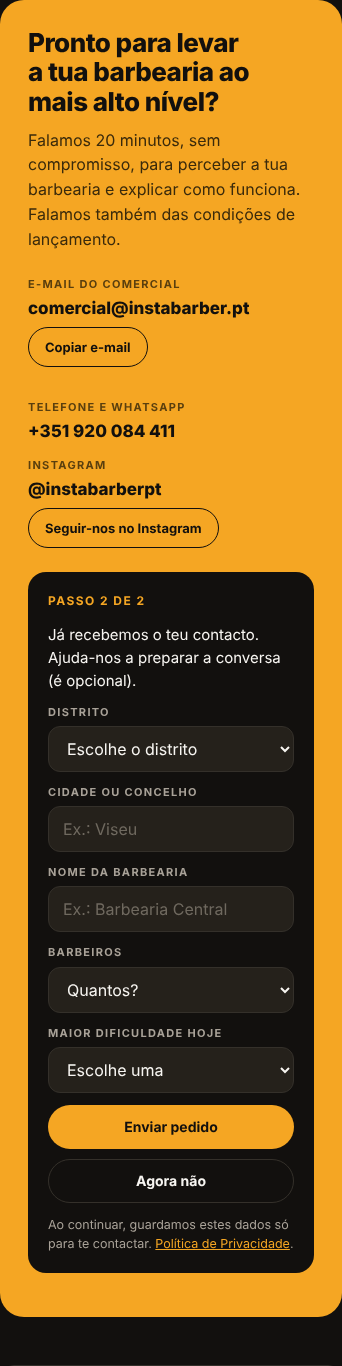
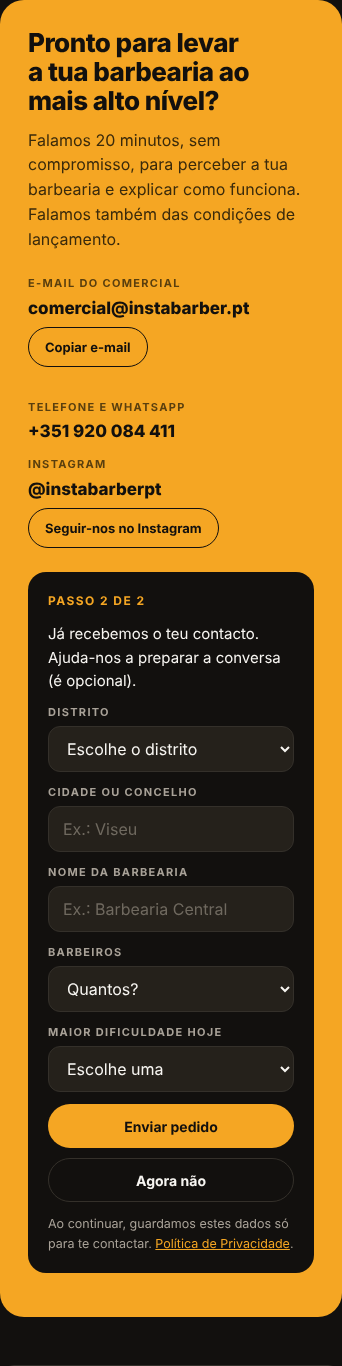
Landing: contagem decrescente e botão verde Avisar cliente na agenda da demo (D-96)
Claude-Session: https://claude.ai/code/session_01NzqEVh27JN9VYLXgeANEsa

diff --git a/landing/index.html b/landing/index.html
@@ -246,6 +246,14 @@ details .ans a { color: var(--gold); }
 .slotx { display: grid; grid-template-columns: 56px minmax(0, 1fr) auto; gap: 12px; align-items: center; padding: 10px 14px; border: 1px solid var(--line); border-radius: 12px; background: var(--ink-3); min-height: 56px; }
 .slotx time { font-weight: 800; color: var(--gold); font-variant-numeric: tabular-nums; }
 .slotx small { display: block; color: var(--mute); font-size: 13px; }
+.slotx .act { display: flex; align-items: center; gap: 10px; flex-wrap: wrap; justify-content: flex-end; }
+.slotx .cd { color: var(--green); font-weight: 700; font-variant-numeric: tabular-nums; }
+.slotx .avmsg { grid-column: 1 / -1; background: var(--ink); border-left: 3px solid var(--green); border-radius: 8px; padding: 10px 12px; font-size: 14px; color: var(--cream); }
+.slotx .avmsg small { margin-top: 6px; }
+.slotx .avok { color: var(--green); font-weight: 700; font-size: 14px; }
+.mini.ok { background: var(--green); border-color: var(--green); color: var(--ink); }
+.mini.ok:hover { background: #55D3A2; border-color: #55D3A2; color: var(--ink); }
+#lab[data-tema="claro"] .mini.ok { background: var(--green); border-color: var(--green); color: #FFFFFF; }
 .slotx.free { border-style: dashed; background: transparent; }
 .slotx.mine { border-color: var(--green); }
 .mini { font: inherit; font-weight: 700; font-size: 13px; min-height: 40px; padding: 0 14px; border-radius: 999px; border: 1.5px solid var(--gold); background: transparent; color: var(--gold); cursor: pointer; }
@@ -380,7 +388,7 @@ footer .links a:hover { color: var(--gold); }
   .slotx { grid-template-columns: 52px minmax(0, 1fr); }
   .prow { grid-template-columns: minmax(0, 1fr) auto; }
   .prow > :last-child { grid-column: 1 / -1; justify-self: start; }
-  .slotx > :last-child { grid-column: 1 / -1; justify-self: start; }
+  .slotx > .act, .slotx > .svc, .slotx > button { grid-column: 1 / -1; justify-self: start; }
   .who > div { border-left: 0; border-top: 1px solid var(--line); }
   .who > div:first-child { border-top: 0; }
   .plans { grid-template-columns: minmax(0, 1fr); }
@@ -481,7 +489,7 @@ footer .links a:hover { color: var(--gold); }
       </div>
 
       <div class="pane" id="p-agenda" role="tabpanel" aria-labelledby="t-agenda">
-        <p class="hintx">Carrega numa vaga livre e marca como se fosses um cliente da página pública.</p>
+        <p class="hintx">Carrega numa vaga livre e marca como se fosses um cliente da página pública. Quando a hora de um cliente se aproxima, avisa-o com um toque.</p>
         <div class="row2">
           <div class="pane" id="agenda"></div>
           <div class="stats">
@@ -1018,12 +1026,22 @@ footer .links a:hover { color: var(--gold); }
 
   /* agenda */
   var SERV = [{ k: "Corte", p: 12 }, { k: "Barba", p: 8 }, { k: "Corte e barba", p: 18 }];
+  var T0 = Date.now();
+  function agHora(ms) { return new Intl.DateTimeFormat("pt-PT", { timeZone: "Europe/Lisbon", hour: "2-digit", minute: "2-digit", hour12: false }).format(new Date(ms)); }
+  function agAlvo(min) { return Math.ceil((T0 + min * 60000) / 300000) * 300000; }
   var slots = [
-    { t: "10:00", n: "Tiago M.", s: "Corte e barba", p: 18 }, { t: "10:45", n: "André S.", s: "Corte", p: 12 },
-    { t: "11:15", free: true }, { t: "12:00", n: "Rui P.", s: "Barba", p: 8 },
-    { t: "15:00", free: true }, { t: "16:30", n: "Nuno F.", s: "Corte", p: 12 }, { t: "17:15", free: true }
+    { m: 30, n: "Tiago M.", s: "Corte e barba", p: 18 }, { m: 75, n: "André S.", s: "Corte", p: 12 },
+    { m: 105, free: true }, { m: 150, n: "Rui P.", s: "Barba", p: 8 },
+    { m: 330, free: true }, { m: 420, n: "Nuno F.", s: "Corte", p: 12 }, { m: 465, free: true }
   ];
+  slots.forEach(function (s) { s.ts = agAlvo(s.m); s.t = agHora(s.ts); s.av = 0; });
   var abertoIdx = -1;
+  function contagem(ts) {
+    var d = Math.round((ts - Date.now()) / 1000);
+    if (d <= 0) { return "A começar agora"; }
+    if (d < 3600) { return "Começa em " + String(Math.floor(d / 60)).padStart(2, "0") + ":" + String(d % 60).padStart(2, "0"); }
+    return "Começa em " + Math.floor(d / 3600) + " h " + String(Math.floor(d % 3600 / 60)).padStart(2, "0") + " min";
+  }
   function pintarAgenda() {
     var h = "", total = 0, livres = 0;
     slots.forEach(function (s, i) {
@@ -1038,8 +1056,14 @@ footer .links a:hover { color: var(--gold); }
         }
       } else {
         total += s.p;
-        h += '<div class="slotx' + (s.mine ? " mine" : "") + '"><time>' + s.t + '</time><span>' + s.n + '<small>' + s.s + (s.mine ? " · marcado pela página pública" : "") + '</small></span>' +
-          (s.mine ? '<button class="mini ghost" type="button" data-x="' + i + '">Cancelar</button>' : '<em>' + s.p + ' €</em>') + '</div>';
+        var acao;
+        if (s.mine) { acao = '<button class="mini ghost" type="button" data-x="' + i + '">Cancelar</button>'; }
+        else if (s.av === 0) { acao = '<em>' + s.p + ' €</em><button class="mini ok" type="button" data-v="' + i + '">Avisar cliente</button>'; }
+        else if (s.av === 1) { acao = '<em>' + s.p + ' €</em><button class="mini ok" type="button" data-v="' + i + '">Confirmei o envio</button>'; }
+        else { acao = '<em>' + s.p + ' €</em><span class="avok">Cliente avisado</span>'; }
+        h += '<div class="slotx' + (s.mine ? " mine" : "") + '"><time>' + s.t + '</time><span>' + s.n + '<small>' + s.s + (s.mine ? " · marcado pela página pública" : "") + '</small><small class="cd" data-ts="' + s.ts + '">' + contagem(s.ts) + '</small></span>' +
+          '<div class="act">' + acao + '</div>' +
+          (s.av === 1 ? '<div class="avmsg">Olá ' + s.n.split(" ")[0] + '! Já falta pouco para o teu ' + s.s.toLowerCase() + ' na Barbearia Central, às ' + s.t + '. Até já!<small>No sistema real, a conversa abre no WhatsApp do cliente e nada se envia sozinho: tu confirmas.</small></div>' : '') + '</div>';
       }
     });
     $("agenda").innerHTML = h; $("a-total").textContent = eur(total); $("a-livres").textContent = String(livres);
@@ -1051,10 +1075,14 @@ footer .links a:hover { color: var(--gold); }
     else if (b.dataset.m) {
       var p = b.dataset.m.split(":"), s = slots[+p[0]], x = SERV[+p[1]];
       s.free = false; s.mine = true; s.n = "Tu (cliente novo)"; s.s = x.k; s.p = x.p; abertoIdx = -1;
-    } else if (b.dataset.x) { var q = slots[+b.dataset.x]; slots[+b.dataset.x] = { t: q.t, free: true }; }
+    } else if (b.dataset.v) { slots[+b.dataset.v].av += 1; }
+    else if (b.dataset.x) { var q = slots[+b.dataset.x]; slots[+b.dataset.x] = { m: q.m, ts: q.ts, t: q.t, av: 0, free: true }; }
     pintarAgenda();
   });
   pintarAgenda();
+  setInterval(function () {
+    Array.prototype.forEach.call(document.querySelectorAll("#agenda .cd"), function (el) { el.textContent = contagem(+el.dataset.ts); });
+  }, 1000);
 
   /* painel financeiro */
   var FIN = { hoje: { n: "Hoje", f: 186, o: 240, d: 35, s: 9 }, sem: { n: "Esta semana", f: 1040, o: 1250, d: 310, s: 48 }, mes: { n: "Este mês", f: 4180, o: 5000, d: 1260, s: 190 } };

diff --git a/landing/publicar/index.html b/landing/publicar/index.html
@@ -262,6 +262,14 @@ details .ans a { color: var(--gold); }
 .slotx { display: grid; grid-template-columns: 56px minmax(0, 1fr) auto; gap: 12px; align-items: center; padding: 10px 14px; border: 1px solid var(--line); border-radius: 12px; background: var(--ink-3); min-height: 56px; }
 .slotx time { font-weight: 800; color: var(--gold); font-variant-numeric: tabular-nums; }
 .slotx small { display: block; color: var(--mute); font-size: 13px; }
+.slotx .act { display: flex; align-items: center; gap: 10px; flex-wrap: wrap; justify-content: flex-end; }
+.slotx .cd { color: var(--green); font-weight: 700; font-variant-numeric: tabular-nums; }
+.slotx .avmsg { grid-column: 1 / -1; background: var(--ink); border-left: 3px solid var(--green); border-radius: 8px; padding: 10px 12px; font-size: 14px; color: var(--cream); }
+.slotx .avmsg small { margin-top: 6px; }
+.slotx .avok { color: var(--green); font-weight: 700; font-size: 14px; }
+.mini.ok { background: var(--green); border-color: var(--green); color: var(--ink); }
+.mini.ok:hover { background: #55D3A2; border-color: #55D3A2; color: var(--ink); }
+#lab[data-tema="claro"] .mini.ok { background: var(--green); border-color: var(--green); color: #FFFFFF; }
 .slotx.free { border-style: dashed; background: transparent; }
 .slotx.mine { border-color: var(--green); }
 .mini { font: inherit; font-weight: 700; font-size: 13px; min-height: 40px; padding: 0 14px; border-radius: 999px; border: 1.5px solid var(--gold); background: transparent; color: var(--gold); cursor: pointer; }
@@ -396,7 +404,7 @@ footer .links a:hover { color: var(--gold); }
   .slotx { grid-template-columns: 52px minmax(0, 1fr); }
   .prow { grid-template-columns: minmax(0, 1fr) auto; }
   .prow > :last-child { grid-column: 1 / -1; justify-self: start; }
-  .slotx > :last-child { grid-column: 1 / -1; justify-self: start; }
+  .slotx > .act, .slotx > .svc, .slotx > button { grid-column: 1 / -1; justify-self: start; }
   .who > div { border-left: 0; border-top: 1px solid var(--line); }
   .who > div:first-child { border-top: 0; }
   .plans { grid-template-columns: minmax(0, 1fr); }
@@ -500,7 +508,7 @@ footer .links a:hover { color: var(--gold); }
       </div>
 
       <div class="pane" id="p-agenda" role="tabpanel" aria-labelledby="t-agenda">
-        <p class="hintx">Carrega numa vaga livre e marca como se fosses um cliente da página pública.</p>
+        <p class="hintx">Carrega numa vaga livre e marca como se fosses um cliente da página pública. Quando a hora de um cliente se aproxima, avisa-o com um toque.</p>
         <div class="row2">
           <div class="pane" id="agenda"></div>
           <div class="stats">
@@ -1037,12 +1045,22 @@ footer .links a:hover { color: var(--gold); }
 
   /* agenda */
   var SERV = [{ k: "Corte", p: 12 }, { k: "Barba", p: 8 }, { k: "Corte e barba", p: 18 }];
+  var T0 = Date.now();
+  function agHora(ms) { return new Intl.DateTimeFormat("pt-PT", { timeZone: "Europe/Lisbon", hour: "2-digit", minute: "2-digit", hour12: false }).format(new Date(ms)); }
+  function agAlvo(min) { return Math.ceil((T0 + min * 60000) / 300000) * 300000; }
   var slots = [
-    { t: "10:00", n: "Tiago M.", s: "Corte e barba", p: 18 }, { t: "10:45", n: "André S.", s: "Corte", p: 12 },
-    { t: "11:15", free: true }, { t: "12:00", n: "Rui P.", s: "Barba", p: 8 },
-    { t: "15:00", free: true }, { t: "16:30", n: "Nuno F.", s: "Corte", p: 12 }, { t: "17:15", free: true }
+    { m: 30, n: "Tiago M.", s: "Corte e barba", p: 18 }, { m: 75, n: "André S.", s: "Corte", p: 12 },
+    { m: 105, free: true }, { m: 150, n: "Rui P.", s: "Barba", p: 8 },
+    { m: 330, free: true }, { m: 420, n: "Nuno F.", s: "Corte", p: 12 }, { m: 465, free: true }
   ];
+  slots.forEach(function (s) { s.ts = agAlvo(s.m); s.t = agHora(s.ts); s.av = 0; });
   var abertoIdx = -1;
+  function contagem(ts) {
+    var d = Math.round((ts - Date.now()) / 1000);
+    if (d <= 0) { return "A começar agora"; }
+    if (d < 3600) { return "Começa em " + String(Math.floor(d / 60)).padStart(2, "0") + ":" + String(d % 60).padStart(2, "0"); }
+    return "Começa em " + Math.floor(d / 3600) + " h " + String(Math.floor(d % 3600 / 60)).padStart(2, "0") + " min";
+  }
   function pintarAgenda() {
     var h = "", total = 0, livres = 0;
     slots.forEach(function (s, i) {
@@ -1057,8 +1075,14 @@ footer .links a:hover { color: var(--gold); }
         }
       } else {
         total += s.p;
-        h += '<div class="slotx' + (s.mine ? " mine" : "") + '"><time>' + s.t + '</time><span>' + s.n + '<small>' + s.s + (s.mine ? " · marcado pela página pública" : "") + '</small></span>' +
-          (s.mine ? '<button class="mini ghost" type="button" data-x="' + i + '">Cancelar</button>' : '<em>' + s.p + ' €</em>') + '</div>';
+        var acao;
+        if (s.mine) { acao = '<button class="mini ghost" type="button" data-x="' + i + '">Cancelar</button>'; }
+        else if (s.av === 0) { acao = '<em>' + s.p + ' €</em><button class="mini ok" type="button" data-v="' + i + '">Avisar cliente</button>'; }
+        else if (s.av === 1) { acao = '<em>' + s.p + ' €</em><button class="mini ok" type="button" data-v="' + i + '">Confirmei o envio</button>'; }
+        else { acao = '<em>' + s.p + ' €</em><span class="avok">Cliente avisado</span>'; }
+        h += '<div class="slotx' + (s.mine ? " mine" : "") + '"><time>' + s.t + '</time><span>' + s.n + '<small>' + s.s + (s.mine ? " · marcado pela página pública" : "") + '</small><small class="cd" data-ts="' + s.ts + '">' + contagem(s.ts) + '</small></span>' +
+          '<div class="act">' + acao + '</div>' +
+          (s.av === 1 ? '<div class="avmsg">Olá ' + s.n.split(" ")[0] + '! Já falta pouco para o teu ' + s.s.toLowerCase() + ' na Barbearia Central, às ' + s.t + '. Até já!<small>No sistema real, a conversa abre no WhatsApp do cliente e nada se envia sozinho: tu confirmas.</small></div>' : '') + '</div>';
       }
     });
     $("agenda").innerHTML = h; $("a-total").textContent = eur(total); $("a-livres").textContent = String(livres);
@@ -1070,10 +1094,14 @@ footer .links a:hover { color: var(--gold); }
     else if (b.dataset.m) {
       var p = b.dataset.m.split(":"), s = slots[+p[0]], x = SERV[+p[1]];
       s.free = false; s.mine = true; s.n = "Tu (cliente novo)"; s.s = x.k; s.p = x.p; abertoIdx = -1;
-    } else if (b.dataset.x) { var q = slots[+b.dataset.x]; slots[+b.dataset.x] = { t: q.t, free: true }; }
+    } else if (b.dataset.v) { slots[+b.dataset.v].av += 1; }
+    else if (b.dataset.x) { var q = slots[+b.dataset.x]; slots[+b.dataset.x] = { m: q.m, ts: q.ts, t: q.t, av: 0, free: true }; }
     pintarAgenda();
   });
   pintarAgenda();
+  setInterval(function () {
+    Array.prototype.forEach.call(document.querySelectorAll("#agenda .cd"), function (el) { el.textContent = contagem(+el.dataset.ts); });
+  }, 1000);
 
   /* painel financeiro */
   var FIN = { hoje: { n: "Hoje", f: 186, o: 240, d: 35, s: 9 }, sem: { n: "Esta semana", f: 1040, o: 1250, d: 310, s: 48 }, mes: { n: "Este mês", f: 4180, o: 5000, d: 1260, s: 190 } };

diff --git a/DECISOES.md b/DECISOES.md
@@ -441,3 +441,8 @@ O módulo da calculadora passa a ter fundo claro, barra de aplicação no topo (
 ## D-95 · 22/10/2026 · Cartão oferta: card estático
 - O Cartão oferta interativo foi substituído por um card estático: descrição do serviço («Uma prenda que traz clientes novos», com três pontos) e, ao lado, a ilustração do cartão (exemplo de 30,00 €, código de exemplo, «Válido por 12 meses», «Não é documento fiscal»).
 - Removidos o JavaScript e o CSS da versão interativa (incluindo as regras `.calc` e `#receitabox`, que já não tinham uso).
+
+## D-96 · 22/10/2026 · Agenda da demonstração: contagem e botão «Avisar cliente»
+- Na aba Agenda da demonstração, cada cliente marcado mostra uma contagem decrescente («Começa em 29:58», e «Começa em 1 h 16 min» quando falta mais de uma hora) e um botão verde «Avisar cliente».
+- O botão segue a regra do WhatsApp (CLAUDE.md, regra 7): primeiro prepara a mensagem, depois «Confirmei o envio», e só então fica «Cliente avisado». Nada se dá como enviado sem confirmação.
+- As horas da demonstração partem da hora atual de Lisboa (primeiro cliente daqui a cerca de 30 minutos), para a contagem parecer sempre «ao vivo».
